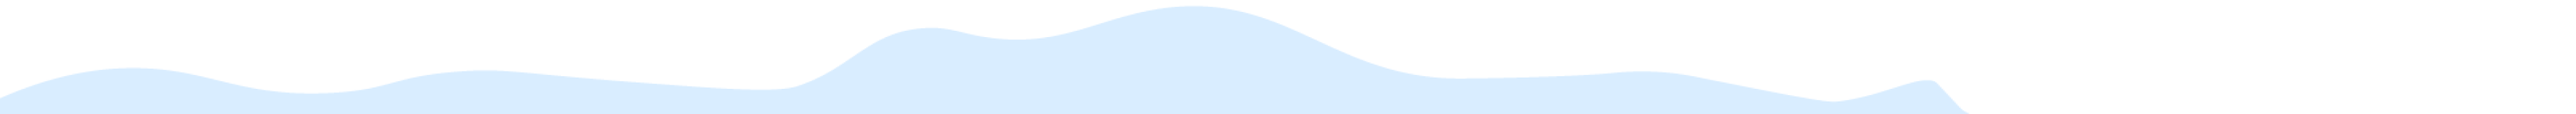
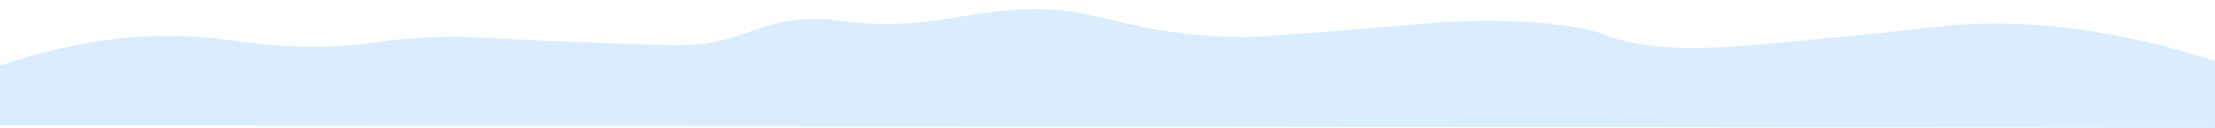
hot fix: water img change

diff --git a/src/song/phaze2/phaze2_img.css b/src/song/phaze2/phaze2_img.css
@@ -64,8 +64,9 @@
 
 .water2 {
     position: absolute;
-    bottom: 0px;
-    left: -700px;
+    width: 150%;
+    bottom: -30px;
+    left: -400px;
     z-index: 4;
     opacity: 0;
     height: auto; /* 비율을 유지하면서 자동 높이 */
